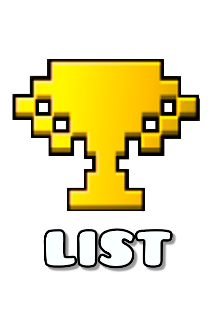
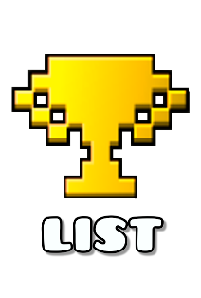
hard coded demonlist and stored it into levelbrowserlayer

Changed region(s): [[0.0299, 0.1812, 0.9552, 0.8758]]

diff --git a/Demonlist/src/level/level.cpp b/Demonlist/src/level/level.cpp
@@ -6,10 +6,18 @@
 #include <matjson.hpp>
 #include <iostream>
 #include <Geode/modify/DemonFilterSelectLayer.hpp>
+#include <Geode/modify/LevelBrowserLayer.hpp>
+#include <Geode/binding/GJSearchObject.hpp>
 
-#include "list.hpp"
-
+#include "list.hpp" 
 using namespace geode::prelude;
+
+class $modify(DemonBrowserLayer, LevelBrowserLayer) {
+    public:
+    static LevelBrowserLayer* create(GJSearchObject* object) {
+        return LevelBrowserLayer::create(object);
+    }
+};
 
 class $modify(MyDemonFilterSelectLayer, DemonFilterSelectLayer) {
     struct Fields {
@@ -19,13 +27,21 @@ class $modify(MyDemonFilterSelectLayer, DemonFilterSelectLayer) {
     private:
     void onButton(CCObject* sender) {
         geode::log::info("Button clicked!");
+        // TO DO: call IDs from an API, string them together, and store it into chosenIDs
+        // OR you could do the API stuff but then create a new type of levelbrowserlayer if you wish to display the rank within each of the sections
+        // PLAN THIS OUT
         
-        m_fields->m_listener.spawn(
-            fetchListData("0"),
-            [](web::WebResponse res) {
-                geode::log::info("{}", res.string().unwrapOr("Uh oh!"));
-            }
-        );
+        std::string chosenIDs = "127323087,119544028,126242564,119550490,86407629,142896409,133175713,109780665,117692518,110816181,135661111,116174063,134942736,4125776,62912799,138704906,114283297,138781722,127997391,112313819,89496627,73667628,110815379,107805281,49896559,120012581,91351939,86018142,110534288,93917076,27690100,113599729,87665224,48991380,130327668,93091893,141052363,114281093,134541844,76962930,113045735,136396693,95851008,131599104,109439644,49072489,75206202,113959291,115077305,120289520,113322063,143718114,85133223,136981369,89414220,90477539,113443235,120255728,81139702,94359172,126571887,96314787,83244159,89187968,139508889,90390075,104232191,86084399,114990369,94969889,62556400,113256247,82544060,131497860,113220284,99703915,81011195,119689515,125317359,114999625,93339534,95719795,95998005,110500920,95049815,105593215,125788781,128093374,82249742,122941596,136135870,96083028,133489881,93340783,103925676,72315402,73214186,93792764,129235528,69685815,59075347,108708033,110991117,95031870,93917362,137757402,109947627,94858072,107741051,130464801,60978746,71025973,107238250,95176417,90057148,76543324,97086864,88203501,104672501,75286957,137334994,105748155,88442157,87130877,93732702,110705712,71885708,113364415,87071894,112242564,79771070,127023313,100990392,115380769,80714349,71434979,120060187,58673581,65588448,128385946,114530859,78435955,137586316,99495619,122389640,88611404,122196131,125617849,112231282,105625871";
+        auto obj = GJSearchObject::create(static_cast<SearchType>(10), chosenIDs);
+        // auto searchObj = DemonBrowserLayer::create(obj);
+        auto scene = LevelBrowserLayer::scene(obj);
+        CCDirector::get()->pushScene(CCTransitionFade::create(0.5f, scene));
+        // m_fields->m_listener.spawn(
+        //     fetchListData("0"),
+        //     [](web::WebResponse res) {
+        //         geode::log::info("{}", res.string().unwrapOr("Uh oh!"));
+        //     }
+        // );
     }
 
     public:
